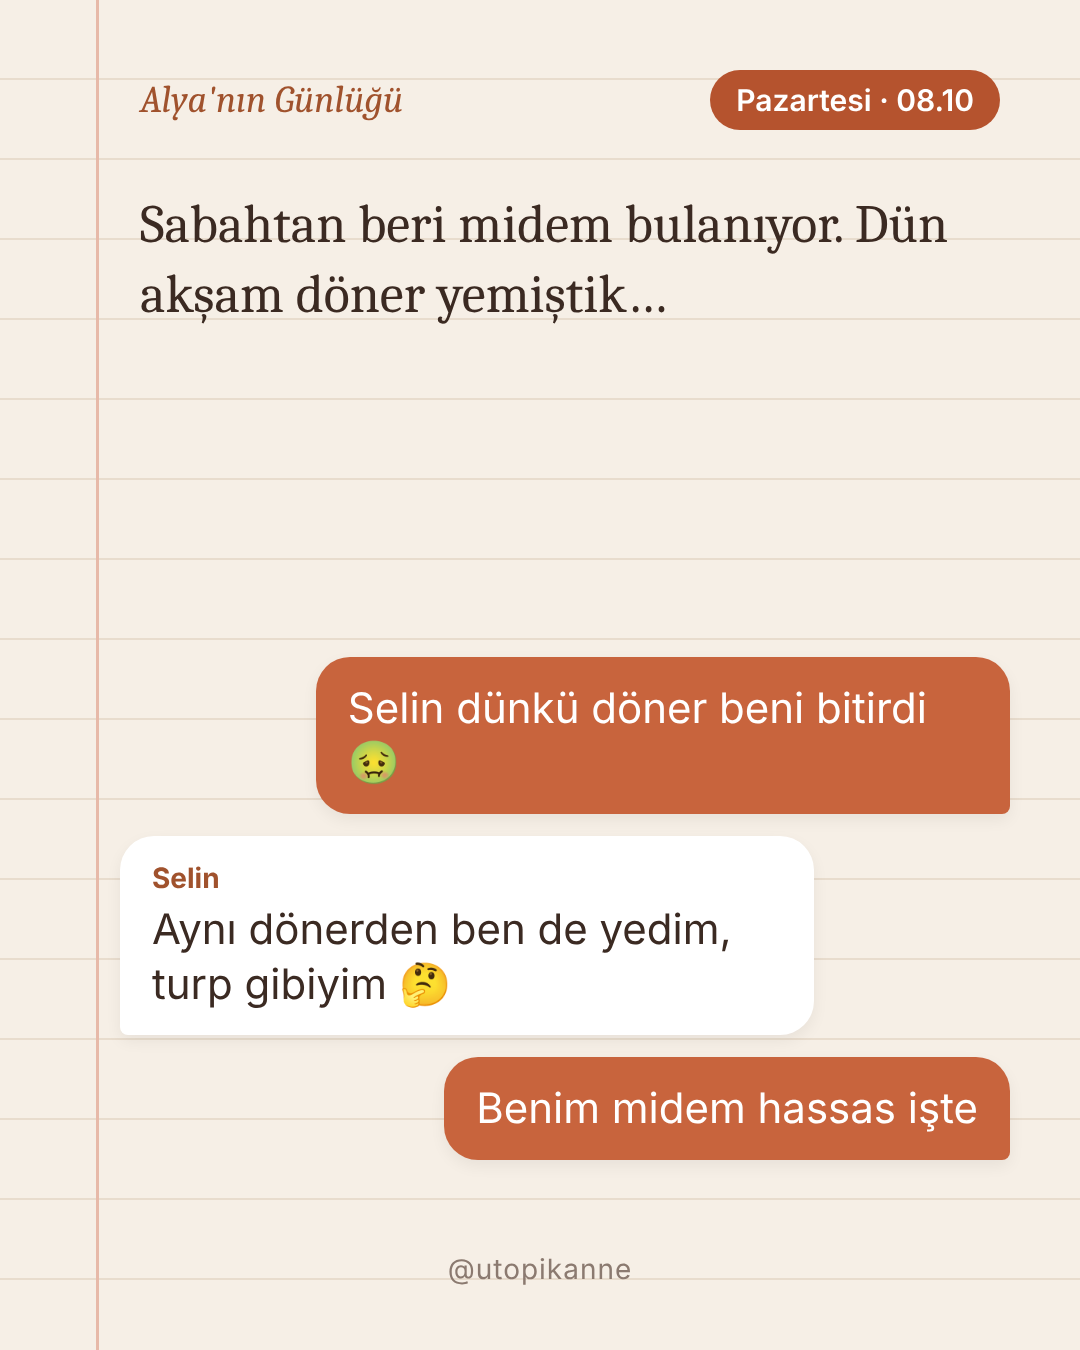
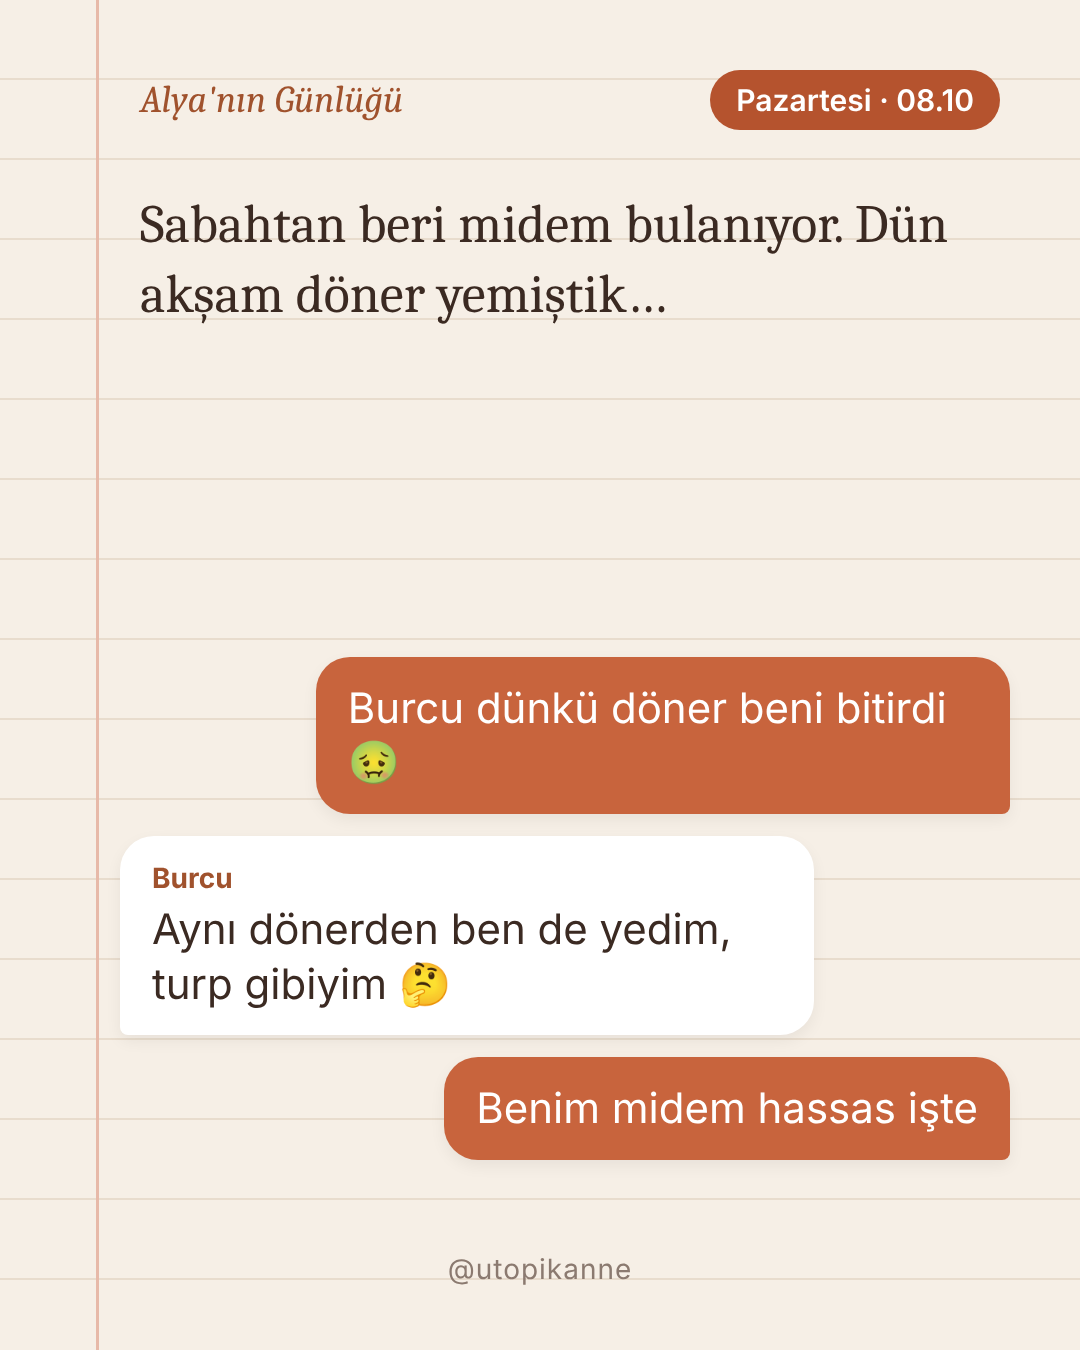
utopikanne: isimler Burcu ve Sevda
Claude-Session: https://claude.ai/code/session_01QGX4XsF2fmNtuvzmoWMg9N

Changed region(s): [[0.3361, 0.4978, 0.8861, 0.56], [0.1528, 0.6222, 0.2139, 0.6844]]

diff --git a/hesaplar/utopikanne/seri_ece.md b/hesaplar/utopikanne/seri_ece.md
@@ -7,17 +7,17 @@ Amaç: "bende de bu var" dedirten, gerçek kokan hamilelik günlüğü. Bilgi hi
 - CAN (eşi): iyi niyetli ama sakar; her şeyi araştırır, sonra 2 dakikada uyuyakalır. Ayak masajı ustası.
 - NERMİN (Alya'nın annesi): "iki kişilik ye", kocakarı ilaçları, aşırı koruyucu. Sevgisi büyük, bilgisi eski.
 - SEVİM (kayınvalide): "bizim zamanımızda" diye başlar, laf sokar. Ama kemik suyunu da o getirir: tatlı-sert.
-- SELİN (arkadaş, Alya'dan ~8 hafta ileride): gebelik şekeri çıkıyor ama "bir şey olmaz ya" diyerek her şeyi yiyor. Seyircinin "aaa Selin!" diyeceği karakter. Sonuçlarını doktoru gösterir (yargılamadan).
+- BURCU (arkadaş, Alya'dan ~8 hafta ileride): gebelik şekeri çıkıyor ama "bir şey olmaz ya" diyerek her şeyi yiyor. Seyircinin "aaa Burcu!" diyeceği karakter. Sonuçlarını doktoru gösterir (yargılamadan).
 - DUYGU (arkadaş, 2 çocuk annesi): gerçekçi abla; "o kahveyi bırak", "o yanma idrar yolu, hemen doktora" der.
 - DR. AYLİN (doktor): bilgiyi o verir → "doktoruna danış" hikâyenin içinde doğal kalır.
-Tekrar eden cümleler: Selin "Bir şey olmaz ya 🍰", Sevim "Bizim zamanımızda…", Can "Okudum bunu!", Nermin "İki kişilik ye kızım".
+Tekrar eden cümleler: Burcu "Bir şey olmaz ya 🍰", Sevim "Bizim zamanımızda…", Can "Okudum bunu!", Nermin "İki kişilik ye kızım".
 
 ## Biçim (her bölüm 5 sayfa, defter görünümü)
 Çizgili defter sayfası, solda kırmızı kenar çizgisi, her girişin başında "12. hafta · Salı 02.14" gibi tarih-saat (el yazısı hissi), arada kısa diyalog. Sayfa 4 = "Dr. Aylin dedi ki" ya da "Duygu'nun notu" kutusu: resmî bilgi, ilaç/doz YOK, en altta küçük satır: "Hikâye kurgudur. Bilgi: <kaynak> · Kendi doktoruna danış." Sayfa 5 = merak + "Sen de yaşadın mı?" Kapak: pudra pembe, "Alya'nın Günlüğü · Bölüm N · X. hafta". Kilo için SAYI/HEDEF yok, diyet dili yok.
 
 ## SEZON 1: HAMİLELİK (Pzt/Çar/Cum 21:00)
 B1 5.hf İki çizgi: döner sanılan bulantı, test, kapı çaldı. (yayında)
-B2 6.hf Kapıdaki Selin: "Ben de hamileyim!" İki arkadaş banyoda ağlıyor. Can'a söyleme (mini ayakkabı, "kimin bebeği?"). Son: ilk bulantı sabahı.
+B2 6.hf Kapıdaki Burcu: "Ben de hamileyim!" İki arkadaş banyoda ağlıyor. Can'a söyleme (mini ayakkabı, "kimin bebeği?"). Son: ilk bulantı sabahı.
 B3 7.hf Bulantı: kahve kokusu bile dayanılmaz, kraker, limon; Nermin "iki kişilik ye". Bilgi: az az sık ye, aşırı kusma/sıvı tutamama → doktor (NHS).
 B4 8.hf İlk doktor: kalp atışı, Can ağlıyor. Dr. Aylin folik asit ve vitaminler: "her gün aynı saat", telefona alarm. Bilgi: folik asit neden önemli (NHS).
 B5 10.hf Kahve krizi: uykusuz, moral bozuk, 2. kahve, Duygu "Yeter!". Çay ve çikolatada da kafein olduğunu öğreniyor. Bilgi: günlük kafein sınırı 200 mg (NHS/HSE).
@@ -27,49 +27,50 @@ B8 16.hf İdrarda yanma ve koku: utanıyor, Google'a yazıyor, Duygu "hemen dokt
 B9 18.hf Gece 2 dolabı: turşu ve beyaz peynir; Can uyuyor. Son: karnında bir kıpırtı…
 B10 20.hf İlk tekme ve detaylı ultrason: cinsiyet. Nermin ile Sevim'in tahminleri çatışıyor.
 B11 22.hf Yürüyüş: Can'la akşam yürüyüşü, sahil, mısır. Bilgi: hamilelikte doktor onayıyla düzenli hafif egzersiz (NHS).
-B12 24-28.hf Şeker yüklemesi: o şerbet, 2 saat bekleme. Alya normal, Selin'e gebelik şekeri çıkıyor: "Bir şey olmaz ya" ve pasta. Bilgi: gebelik şekeri nedir, beslenme, hareket ve doktor takibiyle yönetilir (NHS).
+B12 24-28.hf Şeker yüklemesi: o şerbet, 2 saat bekleme. Alya normal, Burcu'ya gebelik şekeri çıkıyor: "Bir şey olmaz ya" ve pasta. Bilgi: gebelik şekeri nedir, beslenme, hareket ve doktor takibiyle yönetilir (NHS).
 B13 28.hf Doktor tartısı ve "iki kişilik ye": Dr. Aylin "iki kişilik yemek gerekmez" diyor. Bilgi (sayı yok): kilo takibini doktor yapar (NHS).
 B14 30.hf Mide yanması, uyku, yan yatma; Can yastık kalesi kuruyor. Bilgi: 28. haftadan sonra yan yatarak uyumak (NHS).
 B15 32-34.hf Siyatik: "emekli ağır vasıta şoförü" yürüyüşü (Melike'nin viral videosuna selam). Bilgi: bel ve kasık ağrısında ne yapılır, ne zaman doktor (NHS).
-B16 35-36.hf Ödem: ayakkabılar olmuyor, yüzük takılmıyor. Selin'in yüzü aniden şişiyor → hastane. Bilgi: normal ödem ile ani yüz/el şişliği ayrımı; ani şişlikte HEMEN doktor (NHS, preeklampsi).
+B16 35-36.hf Ödem: ayakkabılar olmuyor, yüzük takılmıyor. Burcu'nun yüzü aniden şişiyor → hastane. Bilgi: normal ödem ile ani yüz/el şişliği ayrımı; ani şişlikte HEMEN doktor (NHS, preeklampsi).
 B17 37-38.hf NST: kemerler, kâğıtta kalp atışı, bebek tam o an uyuyor. Bilgi: NST nedir (resmî kaynak).
 B18 39.hf Hastane çantası, sahte sancı gecesi, Can arabanın anahtarını buzdolabında buluyor.
 B19 Doğum: ilk ağlama. SEZON FİNALİ.
 SEZON 2: ANNELİK (kapak açık mavi): lohusalık ve 40 gün, Sevim'in ziyaretleri, emzirme, gaz sancısı, aşılar, uyku, 6. ay ek gıda (Melike'nin dünyasına bağlanır), ilk diş.
 
 ## Etkileşim
-- Sabit yorum dönüşümlü: "Sen bu haftada ne yaşamıştın?", "Sen Alya misin Selin mi? 😅", "Senin kayınvalide de böyle mi?"
-- Story anketi: "Senin çevrende hangisi var? Selin / Duygu / Sevim".
+- Sabit yorum dönüşümlü: "Sen bu haftada ne yaşamıştın?", "Sen Alya misin Burcu mi? 😅", "Senin kayınvalide de böyle mi?"
+- Story anketi: "Senin çevrende hangisi var? Burcu / Duygu / Sevim".
 - Öne çıkan: "Alya'nın Günlüğü".
 - Kaynak kuralı: her bilgi sayfası yayından önce resmî kaynakla doğrulanır; doğrulanamazsa o bilgi çıkarılır.
 
 ## GÜNCELLEME 26 Kasım 19:31 (Melike: "hamilelikte ne varsa: ikili test, fetal DNA, detaylı ultrason… 3 farklı hamilelik")
-ÜÇÜNCÜ HAMİLE: MERVE (38, ileri anne yaşı, ailede genetik hastalık öyküsü, uzun denemeden sonra hamile): titiz, listeci, her testi yaptırıyor, kaygısını espriyle örtüyor. Üç farklı hamilelik:
+ÜÇÜNCÜ HAMİLE: SEVDA (38, ileri anne yaşı, ailede genetik hastalık öyküsü, uzun denemeden sonra hamile): titiz, listeci, her testi yaptırıyor, kaygısını espriyle örtüyor. Üç farklı hamilelik:
 - Alya: "normal" ilk hamilelik; ikili test yaptırıyor, fetal DNA yaptırmıyor (sonradan "acaba yaptırsa mıydım?" kaygısı).
-- Selin: gebelik şekeri, "bir şey olmaz ya".
-- Merve: ileri yaş + aile öyküsü; doktor fetal DNA (NIPT) öneriyor; gerekirse ileri tanı (amniyosentez) konuşuluyor.
+- Burcu: gebelik şekeri, "bir şey olmaz ya".
+- Sevda: ileri yaş + aile öyküsü; doktor fetal DNA (NIPT) öneriyor; gerekirse ileri tanı (amniyosentez) konuşuluyor.
 TEST BÖLÜMLERİ (sezona eklenir, sıra haftaya göre):
 - 10-11.hf "Fetal DNA mı, ikili mi?": üç kadın kafede tartışıyor. Bilgi: ikisi de TARAMA testidir, tanı koymaz. Fetal DNA (hücre dışı DNA) daha yüksek doğrulukta tarar. İleri yaş, aile öyküsü, riskli tarama sonucunda doktor önerebilir. Riskli sonuç ileri tanı testleriyle doğrulanır. (Kaynak: gov.uk Türkçe tarama broşürü, T.C. Sağlık Bakanlığı Doğum Öncesi Bakım Rehberi)
 - 11-14.hf İkili test: ense kalınlığı ultrasonu + kan; sonuç beklerken uykusuz gece. Bilgi: hafta aralığı ve ne ölçer.
-- 15-16.hf Merve'nin sonucu: bekleme kaygısı, gerekirse amniyosentez konuşması (sonuç iyi biter; korkutma yok). Bilgi: ileri tanı ne zaman konuşulur, doktorla.
+- 15-16.hf Sevda'nın sonucu: bekleme kaygısı, gerekirse amniyosentez konuşması (sonuç iyi biter; korkutma yok). Bilgi: ileri tanı ne zaman konuşulur, doktorla.
 - 18-22.hf Detaylı ultrason (2. düzey): organlar tek tek; Can her şeye "bu kafası mı?" diyor.
 - 24-28.hf Şeker yüklemesi (mevcut B12), kan grubu/Rh uyumsuzluğu notu (resmî kaynakla doğrulanırsa).
 - 37-38.hf NST (mevcut).
 Kural: Türkiye'deki uygulama Sağlık Bakanlığı rehberiyle doğrulanır; fiyat/maliyet konusu YAZILMAZ. Korkutucu/kesin tıbbi iddia yok; sonuçlar doktorla konuşulur.
-FİNAL: Üç doğum farklı (Selin erken ve sezaryen, Merve planlı, Alya normal doğum). Sonra SEZON 2: üç annenin lohusalığı ve bebekleri.
+FİNAL: Üç doğum farklı (Burcu erken ve sezaryen, Sevda planlı, Alya normal doğum). Sonra SEZON 2: üç annenin lohusalığı ve bebekleri.
 
 ## GÜNCELLEME 26 Kasım 19:36 (Melike: "sen de araştır, batıl inançlar, ne yenir, bebek gelişimi, kıyafet, duygular; herkes kendini bulsun")
 SOHBETİN OMURGASI (her bölümde üç kadının WhatsApp/kafe muhabbeti):
 - "Benimki bu hafta ne kadar?": yaklaşık boy karşılaştırması (meyve gibi, "yaklaşık" diye) + o haftanın gelişimi (kalp atışı, parmaklar, parmak izi, kaşlar, işitme, ilk kıpırtı, gözlerin açılması…). Kaynak: NHS hafta hafta rehberi; her bölümde ilgili hafta sayfası kontrol edilir.
-- Kıpırtı yarışı: Merve hissediyor, Alya "gaz mı bebek mi?" diye bekliyor.
+- Kıpırtı yarışı: Sevda hissediyor, Alya "gaz mı bebek mi?" diye bekliyor.
 BATIL İNANÇLAR (Nermin ve Sevim söyler; sonunda Dr. Aylin alay etmeden, tatlı bir dille "Cinsiyeti ultrason ya da test söyler" der):
-karın sivri/aşağıdaysa erkek, yuvarlak/yukarıdaysa kız · tatlı aşermesi kız, tuzlu/ekşi erkek · "kız annesinin güzelliğini alır", erkek anneyi güzelleştirir · ipe bağlı alyans ileri geri sallanırsa erkek, daire çizerse kız · göbek altı çizgisi yukarı uzanırsa erkek · kalp atışı 140 üstü kız · ayaklar soğuksa erkek · huysuzluk kız. Bölüm fikri: Sevim yüzüğü sallıyor, Nermin karına bakıyor, ikisi farklı söylüyor, ultrason ikisini de şaşırtıyor. Alya "çirkinleştim, demek kız" diye üzülüyor, Selin "parlıyorum, demek erkek" diyor.
+karın sivri/aşağıdaysa erkek, yuvarlak/yukarıdaysa kız · tatlı aşermesi kız, tuzlu/ekşi erkek · "kız annesinin güzelliğini alır", erkek anneyi güzelleştirir · ipe bağlı alyans ileri geri sallanırsa erkek, daire çizerse kız · göbek altı çizgisi yukarı uzanırsa erkek · kalp atışı 140 üstü kız · ayaklar soğuksa erkek · huysuzluk kız. Bölüm fikri: Sevim yüzüğü sallıyor, Nermin karına bakıyor, ikisi farklı söylüyor, ultrason ikisini de şaşırtıyor. Alya "çirkinleştim, demek kız" diye üzülüyor, Burcu "parlıyorum, demek erkek" diyor.
 NE YENİR / NE YENMEZ (Duygu ve Dr. Aylin; Türkiye'ye uyarlanmış; kaynak NHS/nidirect):
 pastörize edilmemiş süt ve peynir (köy peyniri, taze keçi peyniri) yok; pastörize beyaz peynir, kaşar, yoğurt tamam · çiğ ya da az pişmiş et yok (etli çiğ köfte, az pişmiş köfte) · sucuk/salam iyice pişmeli · ciğer ve ciğerli ürünler yok (A vitamini) · kılıç balığı, köpek balığı, marlin yok; yağlı balık haftada 2 porsiyonla sınırlı · yumurta tam pişmiş · kafein günde 200 mg (hazır kahve ~100, filtre ~140, çay ~75 mg) · alkol yok. "İki kişilik ye" efsanesi Dr. Aylin'de çürür (sayı/kalori yok).
-DUYGULAR: hamile kıyafeti alışverişi (pantolonun düğmesi kapanmıyor, lastik bel mutluluğu) · "çirkinleştim mi?" (Alya) / "hiç bu kadar güzel olmamıştım" (Selin) · bir annenin "annelik çok zor" dediğini duyup gece ağlamak, Can'ın "Biz yaparız" demesi · bebek odası, isim tartışması (Sevim kayınpederin adını istiyor).
+DUYGULAR: hamile kıyafeti alışverişi (pantolonun düğmesi kapanmıyor, lastik bel mutluluğu) · "çirkinleştim mi?" (Alya) / "hiç bu kadar güzel olmamıştım" (Burcu) · bir annenin "annelik çok zor" dediğini duyup gece ağlamak, Can'ın "Biz yaparız" demesi · bebek odası, isim tartışması (Sevim kayınpederin adını istiyor).
 GERÇEKLİK KURALI: Forumlardaki ORTAK deneyim kalıplarından yararlanılır; belirli bir kişinin yazısı/hikâyesi kelimesi kelimesine KOPYALANMAZ (mahremiyet + telif). Her bölümde en az bir sıcak an olur (Can'ın küçük bir jesti, bebeğin ilk kıpırtısı, annesinin elini karna koyması).
 
 ## İSİM KARARI 26 Kasım 20:15: karakter adı ALYA, dizi "Alya'nın Günlüğü", kapakta "utopikanne sunar". B1 yeniden yazıldı: hazir/2026-11-26/ozel/alya_b1 (gerçek erken belirtiler + NHS bilgi notu). Dizi müziği: her bölümde AYNI sakin enstrümantal ses.
 
 ## FORMAT KİLİDİ 26 Kasım 20:21 (Melike: "çok güzel, aynen böyle")
-Şablon: araclar/alya_sohbet.py (mesaj balonlu günlük). Kızların WhatsApp grubu (Alya, Selin, Merve) ana omurga; bazı sayfalar yalnız günlük (Alya'nın duyguları, gündelik hayatı), bazıları yüz yüze konuşma (Can, Nermin, Sevim, Dr. Aylin) aynı balon stilinde. Bilgi sayfası araya GİRMEZ; bilgi açıklamaya (kaynak + doktoruna danış). Mantık hatası kontrolü: her sayfa bir öncekine bağlanmalı. 'sunar' yok.
+Şablon: araclar/alya_sohbet.py (mesaj balonlu günlük). Kızların WhatsApp grubu (Alya, Burcu, Sevda) ana omurga; bazı sayfalar yalnız günlük (Alya'nın duyguları, gündelik hayatı), bazıları yüz yüze konuşma (Can, Nermin, Sevim, Dr. Aylin) aynı balon stilinde. Bilgi sayfası araya GİRMEZ; bilgi açıklamaya (kaynak + doktoruna danış). Mantık hatası kontrolü: her sayfa bir öncekine bağlanmalı. 'sunar' yok.
+İSİMLER (26 Kasım 20:25): Alya, Burcu (gebelik şekeri, eski Selin), Sevda (38, ileri yaş, eski Merve), eşi Can.
